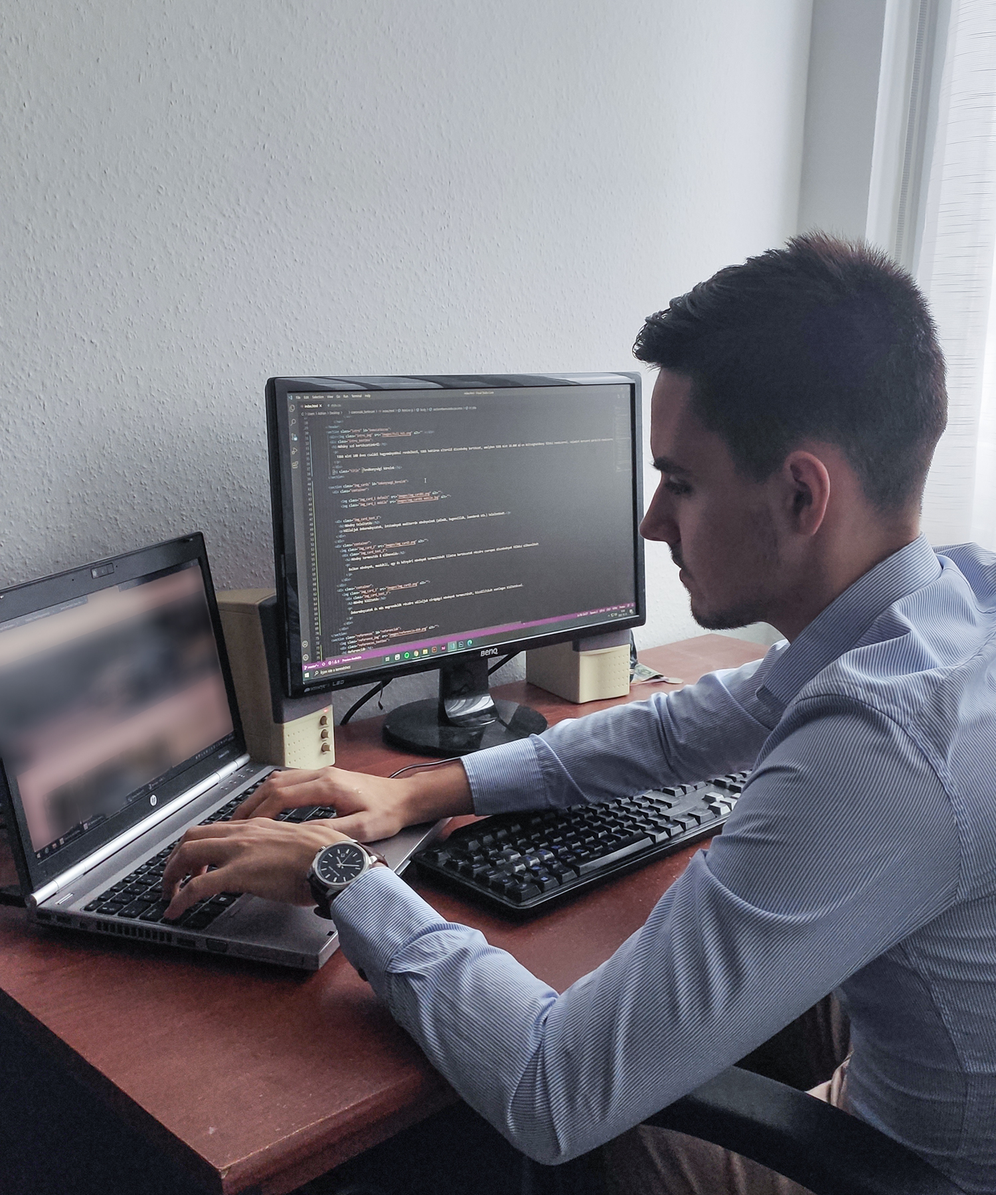
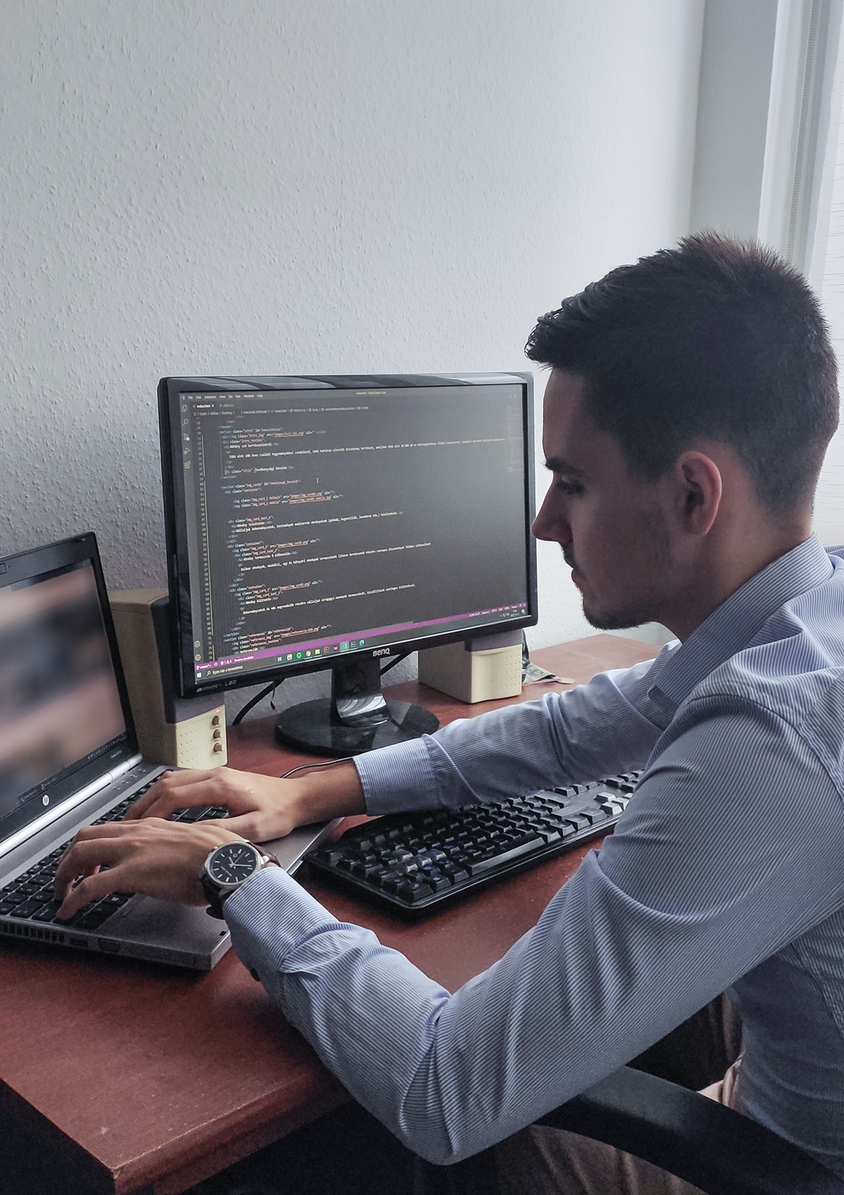
commit

diff --git a/style.css b/style.css
@@ -155,8 +155,8 @@ header{
 .nav-toggle{
     display: none;
 }
-}
 
+}
 
 @media screen and (max-width: 800px){
 header{
@@ -278,7 +278,7 @@ header{
     display: inline-block;
 }
 
-@media (min-width: 600px) {
+@media (min-width: 800px) {
     .intro {
         display: grid;
         width: min-content;
@@ -295,7 +295,7 @@ header{
         min-width: 250px;
         position: relative;
         z-index: 2;
-
+        margin: 0 auto;
         object-fit: cover;
         box-shadow: 10px 15px 25px 0 rgba(0,0,0,.2);
         display: block;
@@ -305,10 +305,7 @@ header{
     .intro__img:hover {
         box-shadow: 1px 1px 10px 0 rgba(0,0,0,.1);
         margin-top: 0;
-        
-
     }
-
 
     .section__subtitle--intro {
         align-self: start;
@@ -320,6 +317,7 @@ header{
         width: calc(100% + 1.5em);
         margin-top: -3em;
     }
+    
 }
 
 /* My services section */
@@ -388,8 +386,11 @@ header{
 
 .about-me {
     max-width: 1000px;
-    margin: 0 auto;
+    margin: 0 auto 100px;
     padding-bottom: 0;
+}
+.about-me__img{
+    box-shadow: var(--bs);
 }
 @media (min-width: 830px){
 .section__subtitle--about{
@@ -398,17 +399,15 @@ margin-top: -3em;
 .about-me__body{
     margin-top: -5em;
 }
+
 }
-/*
-.about-me__img{
-    box-shadow: var(--bs);
-}
-*/
-@media (min-width: 600px){
+
+
+
+@media (min-width: 800px){
     .about-me{
         display: grid;
         margin: 0 auto;
-    
         grid-column: 1fr 200px;
         grid-template-areas: 
             "title img"
@@ -416,8 +415,12 @@ margin-top: -3em;
             "body img";
             
     }
+    .section__title--about{
+        grid-area: title;
+    }
 
     .section__subtitle--about{
+        grid-area: subtitle;
         grid-column: 1 / -1;
         grid-row: 2;
         align-self: start;
@@ -429,8 +432,14 @@ margin-top: -3em;
         grid-area: img;
         z-index: 10;
         position: relative;
+        margin-bottom: 100px;
+        
     }
+    
+   
 }
+
+/* My Work */
 
 .my-work {
     background-color: var(--clr-dark);

diff --git a/index.html b/index.html
@@ -65,7 +65,7 @@
             <p>Lorem ipsum dolor sit amet, consectetur adipiscing elit, sed do eiusmod tempor incididunt ut labore et dolore magna aliqua. Ut enim ad minim veniam, quis nostrud exercitation ullamco laboris nisi ut aliquip ex ea commodo consequat.</p>
             <p>Lorem ipsum dolor sit amet, consectetur adipiscing elit, sed do eiusmod tempor incididunt ut labore et dolore magna aliqua. Ut enim ad minim veniam, quis nostrud exercitation ullamco laboris nisi ut aliquip ex ea commodo consequat.</p>
         </div>
-        <img src="img/developing.jpg" alt="Adrian coding" class="about-me__img">
+        <img src="img/developing.png" alt="Adrian coding" class="about-me__img">
     </section>
     <!-- My work -->
         <section class="my-work" id="work">
